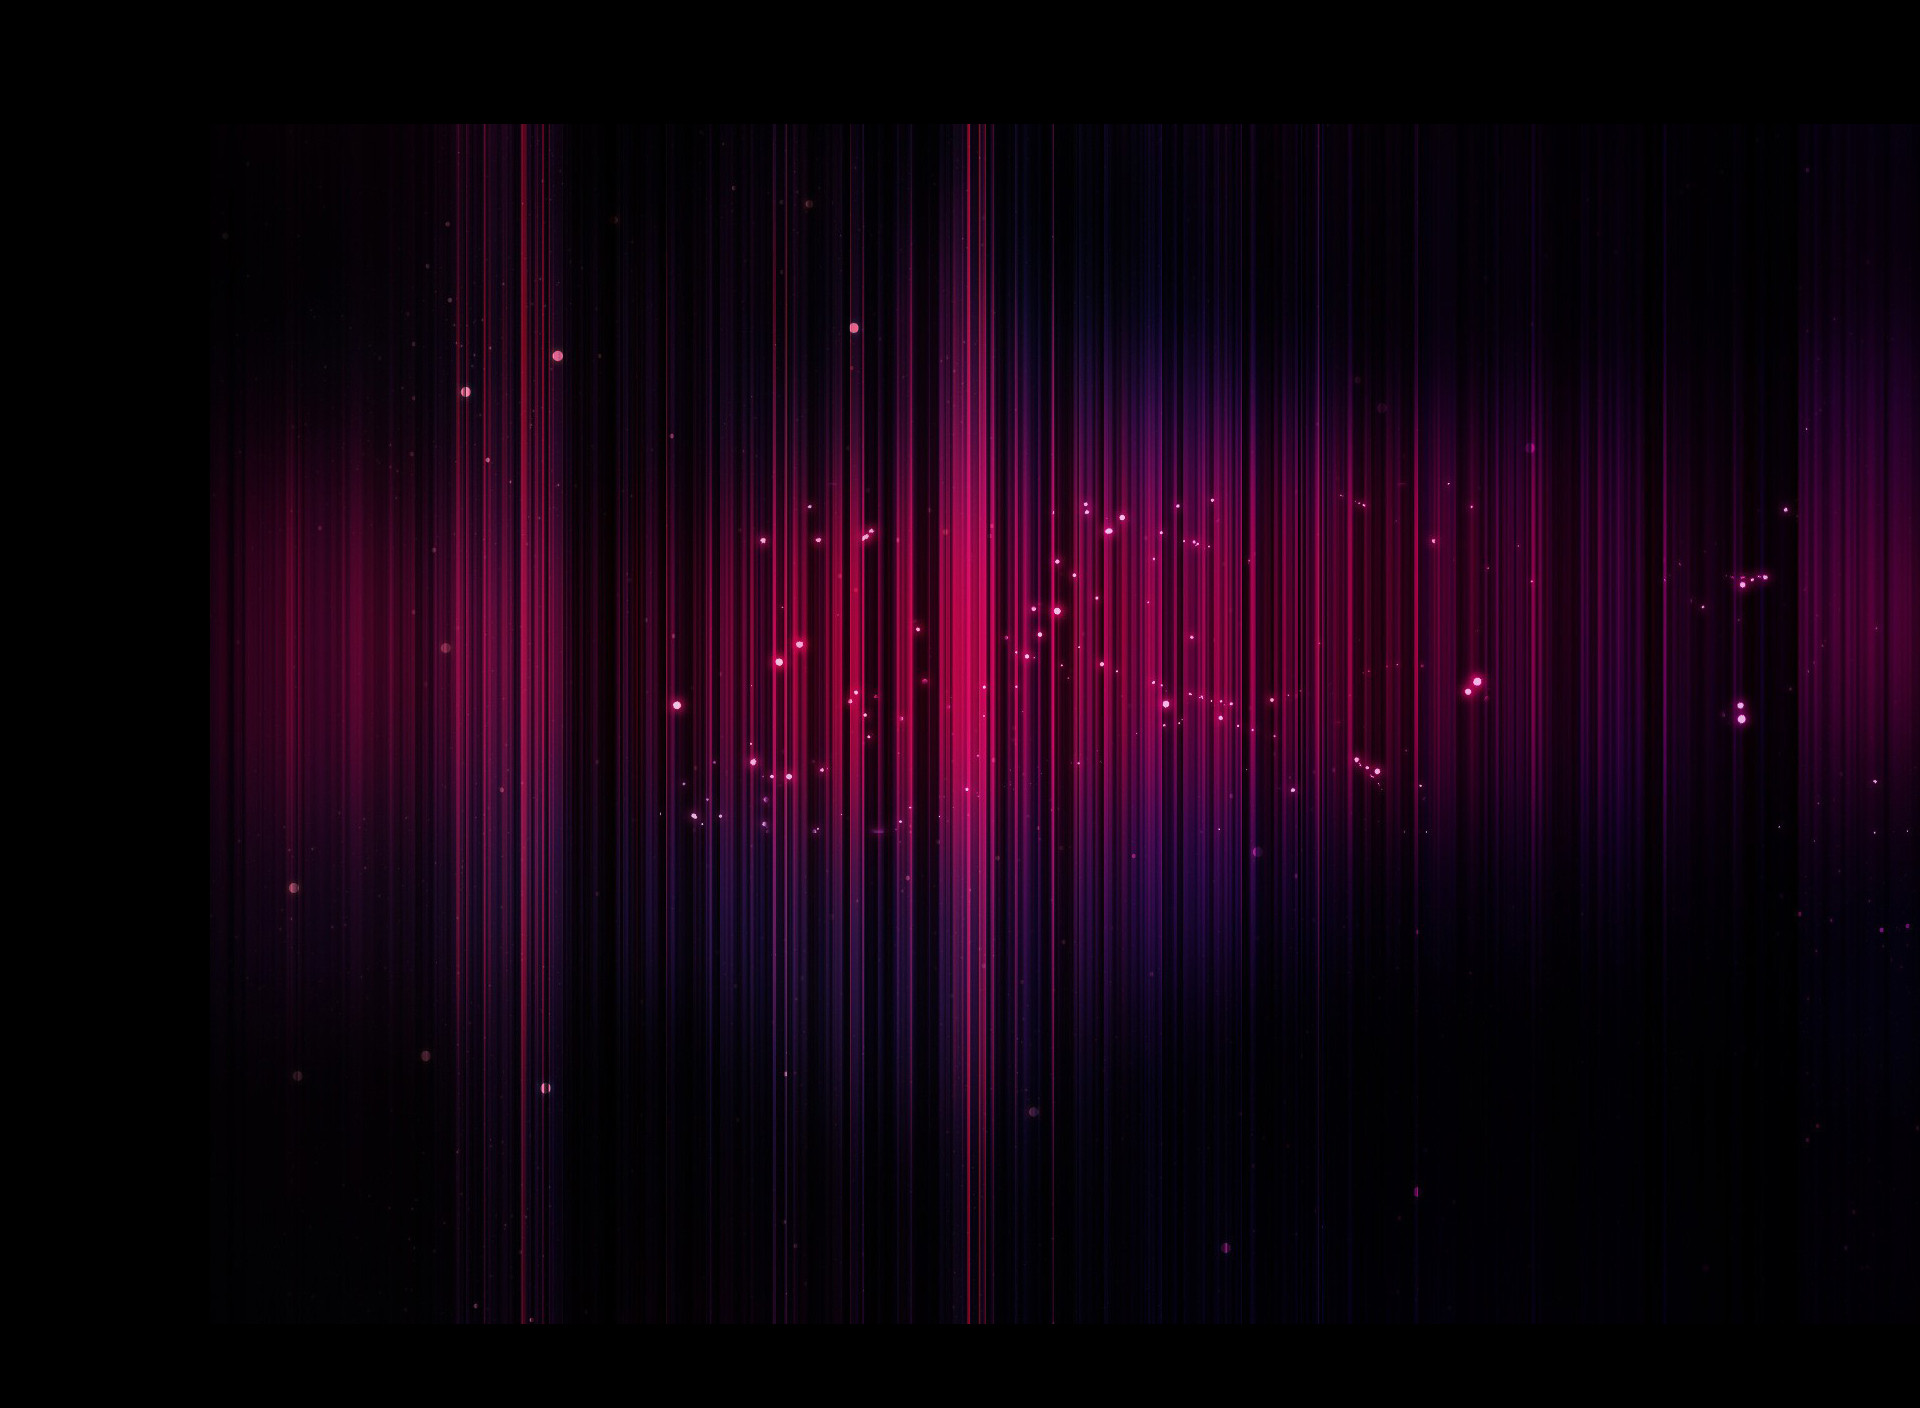
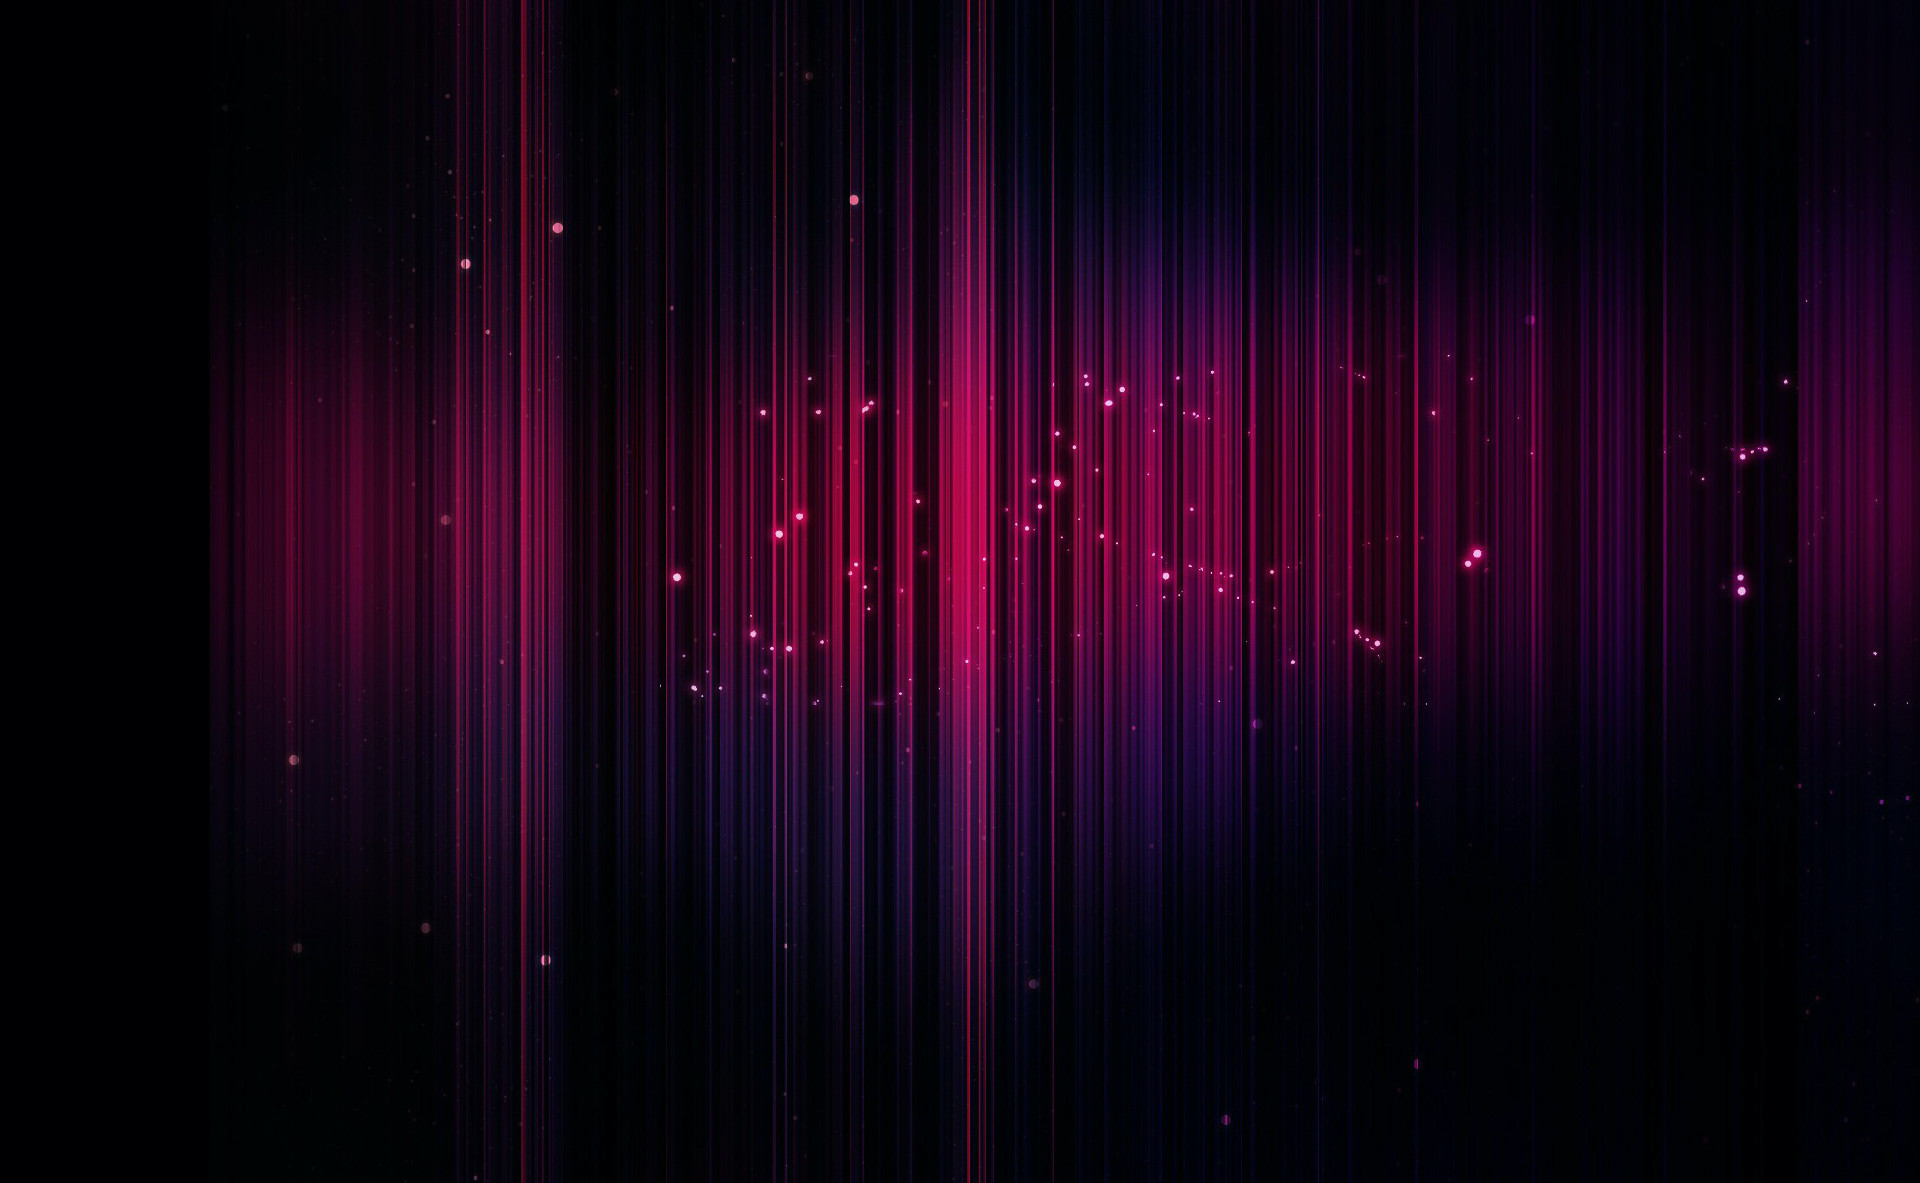
Update

diff --git a/BIT Show - CSS/css/main.css b/BIT Show - CSS/css/main.css
@@ -15,7 +15,7 @@
 
 #header {
     height: 70px;
-    background-color: rgb(74, 71, 71);
+    background-color: rgb(1, 1, 1);
     display: flex;
     align-items: center;
     justify-content: space-between;
@@ -38,7 +38,7 @@
 
 #search-wrapper input {
     position: relative;
-    width: 100%;
+    width: 200px;
     height: 36px;
     border-radius: 4px;
     padding: 0 8px;
@@ -47,6 +47,7 @@
 .search-item {
     padding: 4px 8px;
     cursor: pointer;
+    
 }
 
 .search-item:hover {
@@ -55,10 +56,12 @@
 
 .search-item:first-child {
     margin-top: 4px;
+    
 }
 
 .search-item:last-child {
     margin-top: 4px;
+    
 }
 
 #search-dropdown {
@@ -68,22 +71,30 @@
     border-radius: 8px;
     box-shadow: 0px -4px 40px rgb(255, 255, 255, 0.06), 0px 4px 24px rgb(16, 37, 62, 0.04), 0px 24px 48px rgb(75,  82,  93, 0.02);
     width: 200px;
-    color:rgb(74, 71, 71);
+    color:rgb(1, 1, 1);
     background-color: white;
     overflow: visible;
     z-index: 1;
     /*padding: 4px;*/
+    opacity: 2;
+    
+}
+
+body {
+    background-image: url('./hd-wallpaper-1854124.jpg');
+    background-repeat: repeat;
 }
 
 #main-content {
-    /*height: calc(100vh - 140px);
-    /*overflow: auto;*/
+    /*height: calc(100vh - 140px);*/
+    overflow: visible;
     padding: 24px 0;
     display: flex;
     flex-direction: column;
     align-items: center;
     width: 80%;
     justify-content: space-between;
+    
 }
 
 .p {
@@ -116,15 +127,20 @@
 .show-item {
     width: 350px;
     cursor: pointer;
-    /*align-items: flex-start;*/
+    /*align-items: center;*/
     display: flex;
     flex-direction: column;
     justify-content: center;
+    /*border: 1px;
+    border-style: solid;*/
+    /*overflow: hidden;*/
+    
 }
 
 .show-item p {
     margin-top: 10px;
     margin-bottom: 10px;
+    
 }
 
 .show-item img{
@@ -136,6 +152,7 @@
 
 .detail-wrapper img{
     width: 350px;
+    
 }
 
 .detail-wrapper {
@@ -145,6 +162,7 @@
     columns: 2;
     column-gap: 20px;
     list-style-type: symbols(bulletin);
+    
 }
 
 .list-wrapper {
@@ -163,7 +181,7 @@
 
 #footer {
     height: 70px;
-    background-color: rgb(74, 71, 71);
+    background-color: rgb(1, 1, 1);
     display: flex;
     align-items: center;
     justify-content: center;

diff --git a/BIT Show - CSS/index.html b/BIT Show - CSS/index.html
@@ -5,21 +5,24 @@
     <meta http-equiv="X-UA-Compatible" content="IE=edge">
     <meta name="viewport" content="width=device-width, initial-scale=1.0">
     <link rel="stylesheet" href="./css/main.css"/>
-    <title>BIT Show Class edition</title>
+    <title>BitShow</title>
 </head>
 <body>
     <div id="wrapper">
         <div id="header">
             <div id="home-button">BitShow</div>
             <div id="search-wrapper">
-            <input type="text" id="search-input" placeholder="Find a show"/>
+            <input type="text" id="search-input" placeholder="Search a show here.."/>
             <div id="search-dropdown"></div>
             </div>
         </div>
 
         <div id="main-content"></div>
+
         <div id="footer">Copyright &copy; Jovana Vucetic 2023.</div>
     </div>
+
+
     <script src="./js/data.js"></script>
     <script src="./js/ui.js"></script>
     <script src="./js/app.js"></script>
